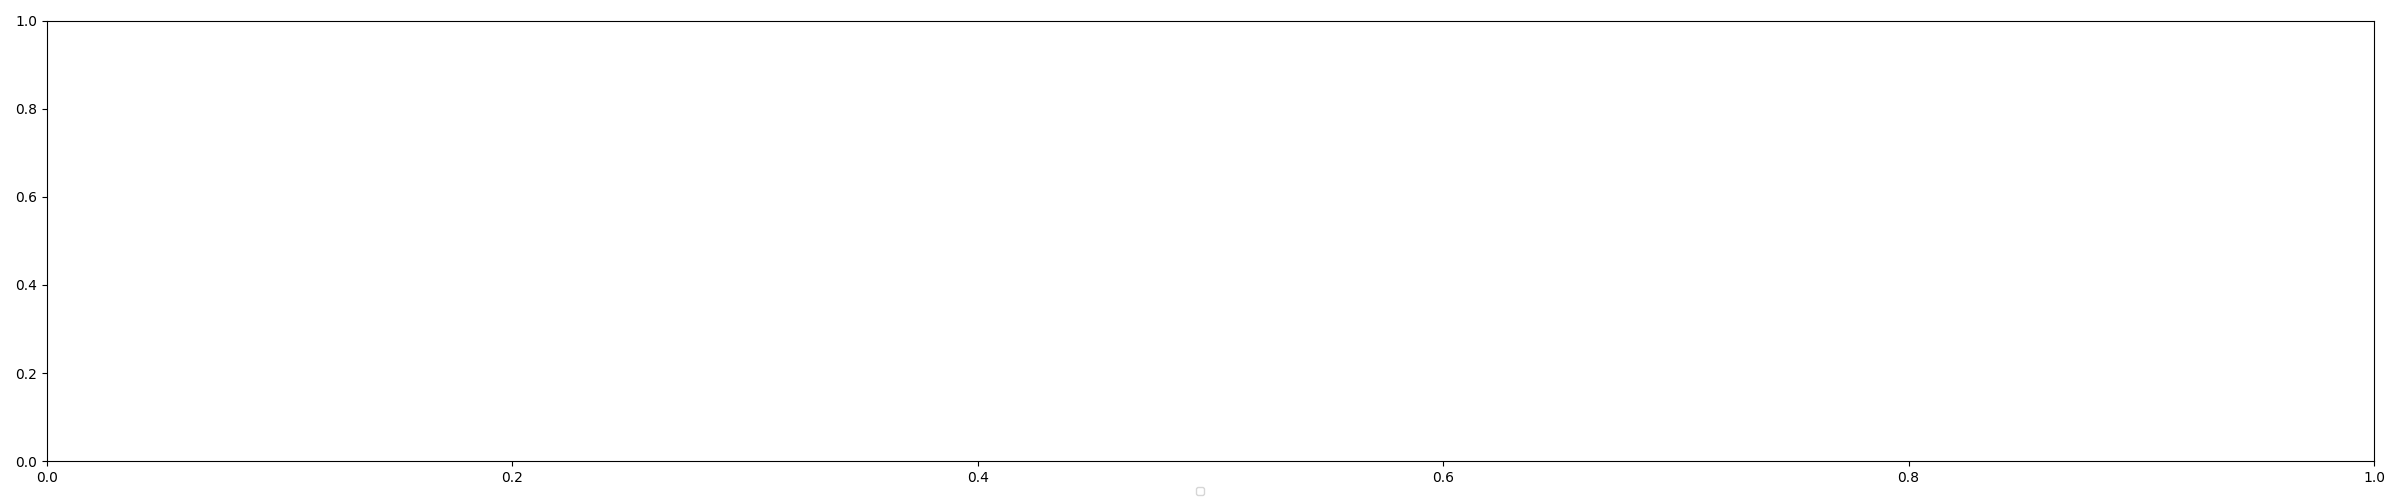
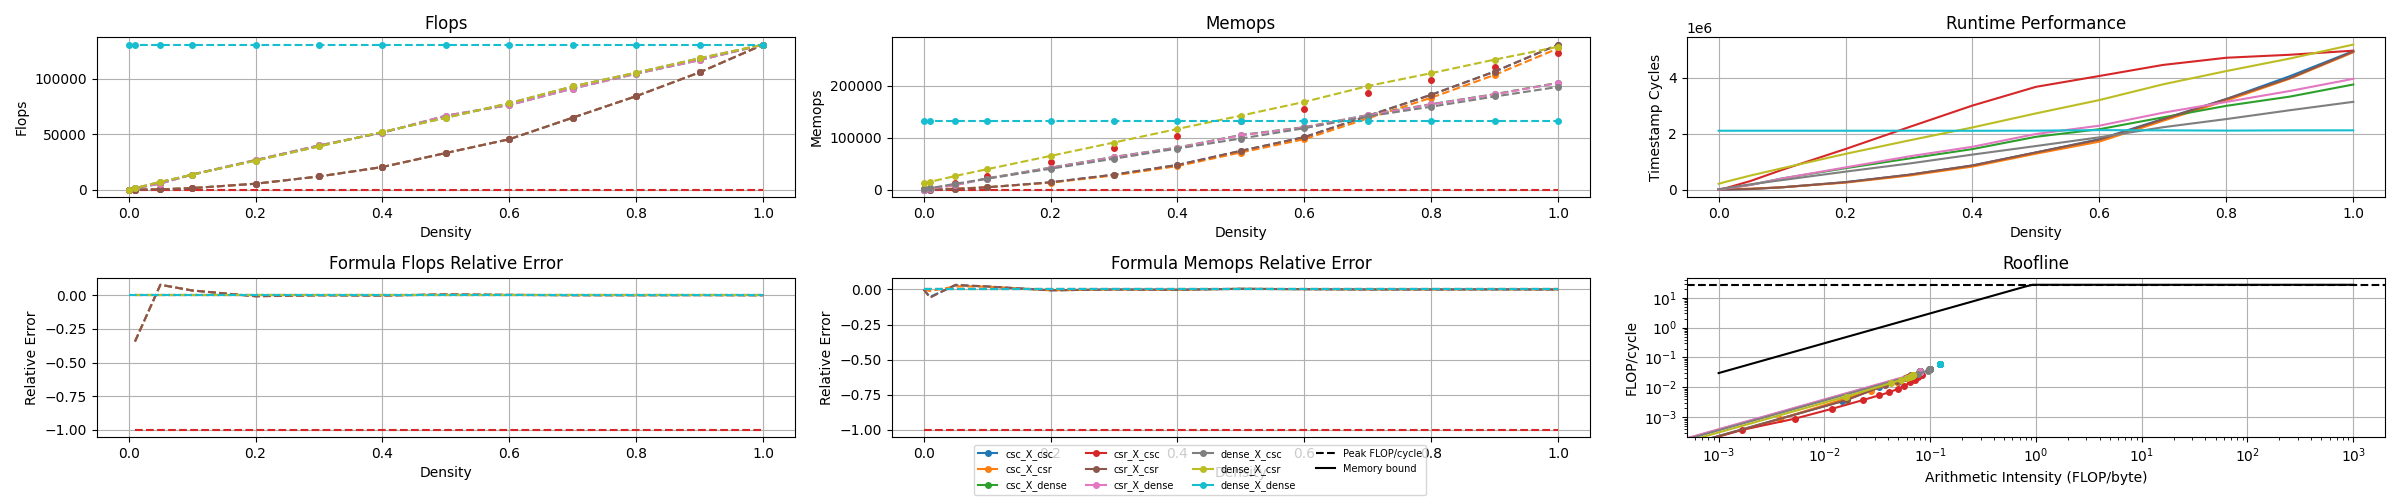
sync

diff --git a/reptest_spmm.c b/reptest_spmm.c
@@ -545,8 +545,7 @@ int main(int argc, char **argv)
 #if 1
   f64 densities[] =
   {
-    0.0, 0.01, 0.02, 0.03, 0.04, 0.05, 0.06, 0.07, 0.08, 0.09,
-    0.1,  0.2,  0.3,  0.4,  0.5,  0.6,  0.7,  0.8,  0.9, 1.0,
+    0.0, 0.01, 0.05, 0.1,  0.2,  0.3,  0.4,  0.5,  0.6,  0.7,  0.8,  0.9, 1.0,
   };
 #else
   f64 densities[] =
@@ -593,8 +592,17 @@ int main(int argc, char **argv)
     arena_clear(&arena); // Reset any memory taken by params
   }
 
+  String timestamp = string_timestamp(&arena);
+  mkdir("data/", 0755);
+  String dir = string_formatted(&arena, "data/%.*s", STRF(timestamp));
+  mkdir(string_to_c_string(&arena, dir), 0755);
+
   // Roofline
   {
+    String join[] = {STR("data/"), timestamp, STR("/roofline.csv")};
+    String filename = string_join_array(&arena, (String_Array)TO_ARRAY(join), STR(""));
+
+    FILE *roofline_dump = fopen(string_to_c_string(&arena, filename), "w");
     {
       Repetition_Tester bandwidth_tester = {0};
       repetition_tester_new_wave(&bandwidth_tester, 0, cpu_timer_frequency, seconds_to_try_for_min);
@@ -609,7 +617,7 @@ int main(int argc, char **argv)
       u64 time    = v.v[REPTEST_VALUE_TIME];
       u64 bytes   = v.v[REPTEST_VALUE_BYTE_COUNT];
 
-      printf("Roofline bandwidth: %f\n", (f64)bytes/time);
+      fprintf(roofline_dump, "%f,", (f64)bytes/time);
     }
 
     {
@@ -627,7 +635,7 @@ int main(int argc, char **argv)
       u64 time    = v.v[REPTEST_VALUE_TIME];
       u64 flops   = v.v[REPTEST_VALUE_FLOP_COUNT];
 
-      printf("Roofline flops/cycle: %f\n", (f64)flops/time);
+      fprintf(roofline_dump, "%f\n", (f64)flops/time);
     }
   }
 
@@ -635,12 +643,6 @@ int main(int argc, char **argv)
   for (usize func_idx = 0; func_idx < STATIC_COUNT(test_entries); func_idx++)
   {
     Operation_Entry *entry = test_entries + func_idx;
-
-    // C standard lib just sucks. why no recursive directory creation!?
-    String timestamp = string_timestamp(&arena);
-    mkdir("data/", 0755);
-    String dir = string_formatted(&arena, "data/%.*s", STRF(timestamp));
-    mkdir(string_to_c_string(&arena, dir), 0755);
 
     String join[] = {STR("data/"), timestamp, STR("/"), entry->name,  STR(".csv")};
     String filename = string_join_array(&arena, (String_Array)TO_ARRAY(join), STR(""));

diff --git a/sparse_matmul_with_density_pyomo.py b/sparse_matmul_with_density_pyomo.py
@@ -16,10 +16,13 @@ from plot import *
 #   0 ---> dd
 #   1 ---> ds
 #   2 ---> sd
-#   3 ---> ss
-#
 min_format = 0
 max_format = 2
+
+def dummy_csr_csc(LRC, LCC, RCC, LNZ, RNZ):
+    flops = 2 ** 32
+    memops = 2 ** 32
+    return flops, memops
 
 FORMULA_MAP = {
     (0, 0): formula_dense_dense,
@@ -27,7 +30,7 @@ FORMULA_MAP = {
     (0, 2): formula_dense_csc,
     (1, 0): formula_csr_dense,
     (1, 1): formula_csr_csr,
-    (1, 2): formula_csr_csc,
+    (1, 2): dummy_csr_csc,
     (2, 0): formula_csc_dense,
     (2, 1): formula_csc_csr,
     (2, 2): formula_csc_csc,
@@ -48,20 +51,26 @@ model.sparse_formats_range = RangeSet(min_format,max_format)
 model.density_range = RangeSet(1,9) # 10% -- 90%
 
 def density_to_nnz(density_idx, rows, cols):
-    return max(1, int(density_idx / 10 * rows * cols))
+    return int(density_idx / 10 * rows * cols)
 
 costs = {}
 for fa in range(min_format, max_format + 1):
     for fb in range(min_format, max_format + 1):
-        for dA in range(1, 10):
-            for dB in range(1, 10):
+        for dA in range(0, 10):
+            for dB in range(0, 10):
                 LRC = 16
                 LCC = 256
                 RCC = 16
                 LNZ = density_to_nnz(dA, LRC, LCC)
                 RNZ = density_to_nnz(dB, LCC, RCC)
                 flops, memops = FORMULA_MAP[fa, fb](LRC, LCC, RCC, LNZ, RNZ)
-                costs[fa, fb, dA, dB] = memops
+                costs[fa, fb, dA, dB] = flops + memops
+
+# densityA={}
+# for m in range(0, M):
+#     for n in range(0, N):
+#         for density_idx in range(0, 1):
+#             densityA[m,n] = density_idx
 
 # Densities
 # These would be the actual densities of each block of A and B
@@ -173,4 +182,4 @@ for p in model.p_range:
         chosen = next(fb for fb in model.sparse_formats_range if value(model.b_format[p,j,fb]) > 0.5)
         print(f"  B[{p},{j}] (density={densityB[p,j]*10}%) -> {format_names[chosen]}")
 
-print(f"\n=== Total cost: {value(model.total_time):.0f} memops ===")
+print(f"\n=== Total cost: {value(model.total_time):.0f} ===")

diff --git a/plot.py b/plot.py
@@ -36,9 +36,10 @@ def formula_csr_csr(LRC, LCC, RCC, LNZ, RNZ):
     memops = (2 * LRC) + (4 * LNZ) + (4 * LNZ * RNZ / LCC)
     return flops, memops
 
+# TODO: Figure this out... messing up other stuff now
 def formula_csr_csc(LRC, LCC, RCC, LNZ, RNZ):
-    flops = 10**9
-    memops = 10**9
+    flops = 0
+    memops = 0
     return flops, memops
 
 def formula_csc_dense(LRC, LCC, RCC, LNZ, RNZ):
@@ -161,10 +162,6 @@ if __name__ == "__main__":
         flops_per_byte = observed_flops / byte
         flops_per_cycle = observed_flops / time
 
-        # HACK: Just hardcoding after measuring. Automate this by dumping it from roofline test
-        peak_flops_per_cycle = 27.311
-        peak_bytes_per_cycle = 30.041
-
         plt.subplot(2,3,6)
         plt.plot(flops_per_byte, flops_per_cycle, 'o-', color=colors[i], label=basename, markersize=4)
         plt.xscale('log')
@@ -174,11 +171,15 @@ if __name__ == "__main__":
         plt.title('Roofline')
         plt.grid(True)
 
-        plt.axhline(y=peak_flops_per_cycle, color='black', linestyle='--', label='Peak FLOP/cycle')
-        x = np.logspace(-3, 3, 100)
-        plt.plot(x, np.minimum(peak_bytes_per_cycle * x, peak_flops_per_cycle),
-                    color='black', linestyle='-', label='Memory bound')
 
+
+    # HACK: Just hardcoding after measuring. Automate this by dumping it from roofline test
+    peak_flops_per_cycle = 27.311
+    peak_bytes_per_cycle = 30.041
+    plt.axhline(y=peak_flops_per_cycle, color='black', linestyle='--', label='Peak FLOP/cycle')
+    x = np.logspace(-3, 3, 100)
+    plt.plot(x, np.minimum(peak_bytes_per_cycle * x, peak_flops_per_cycle),
+                color='black', linestyle='-', label='Memory bound')
     handles, labels = plt.gca().get_legend_handles_labels()
     plt.figlegend(handles, labels, loc='lower center', ncol=4, fontsize=7)
 
